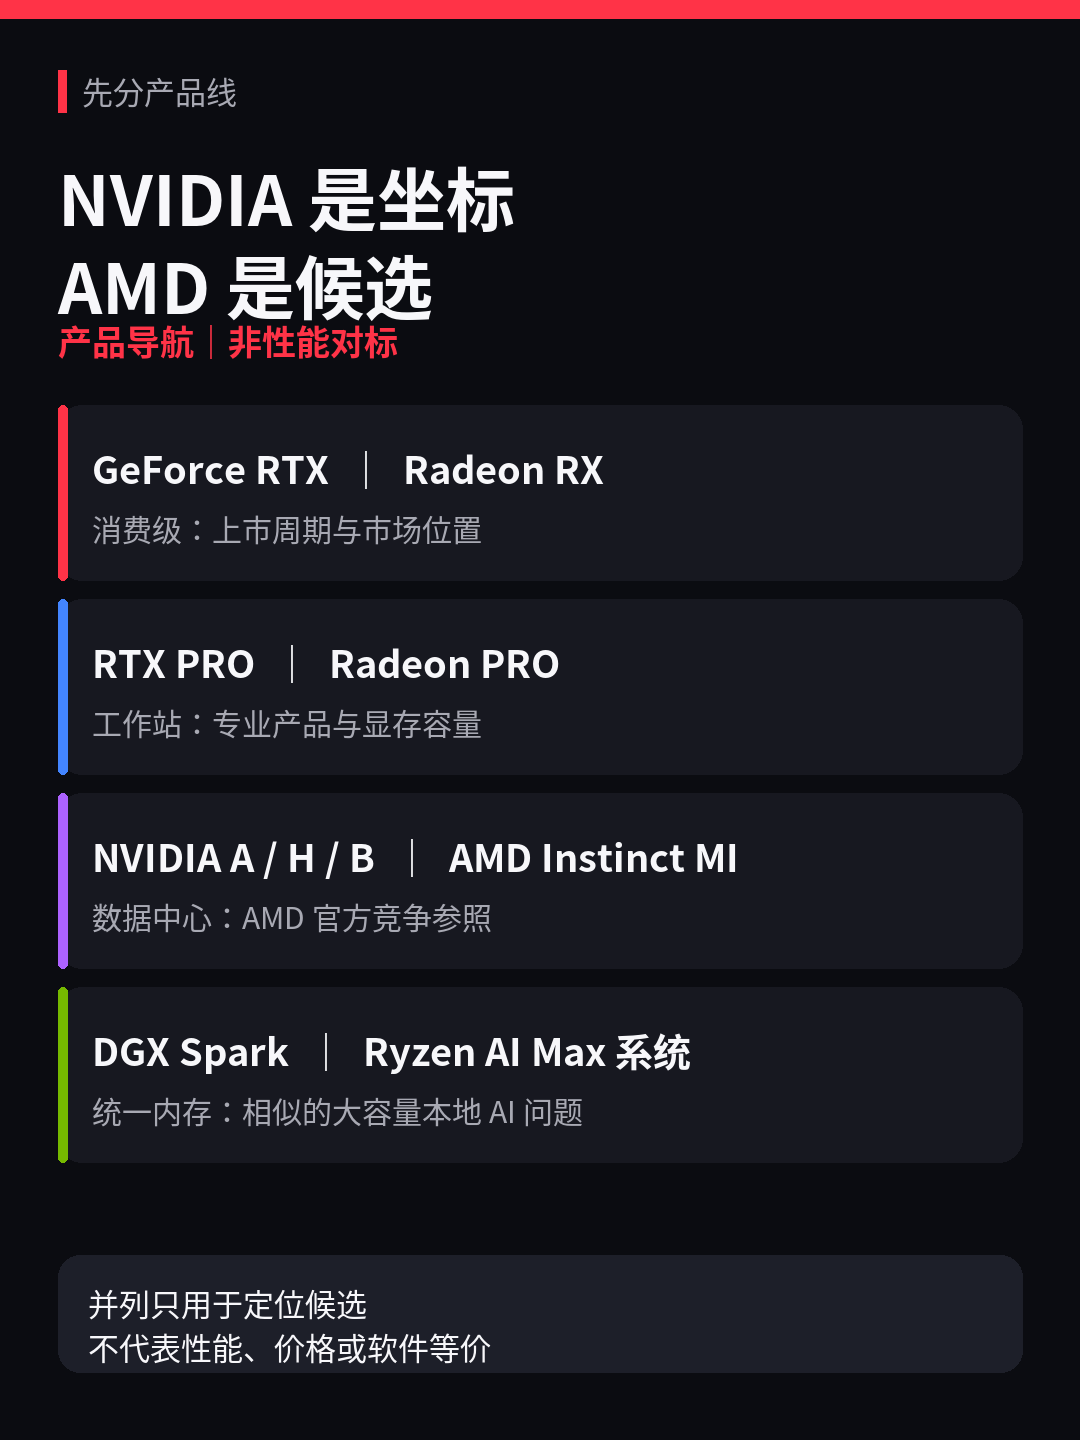
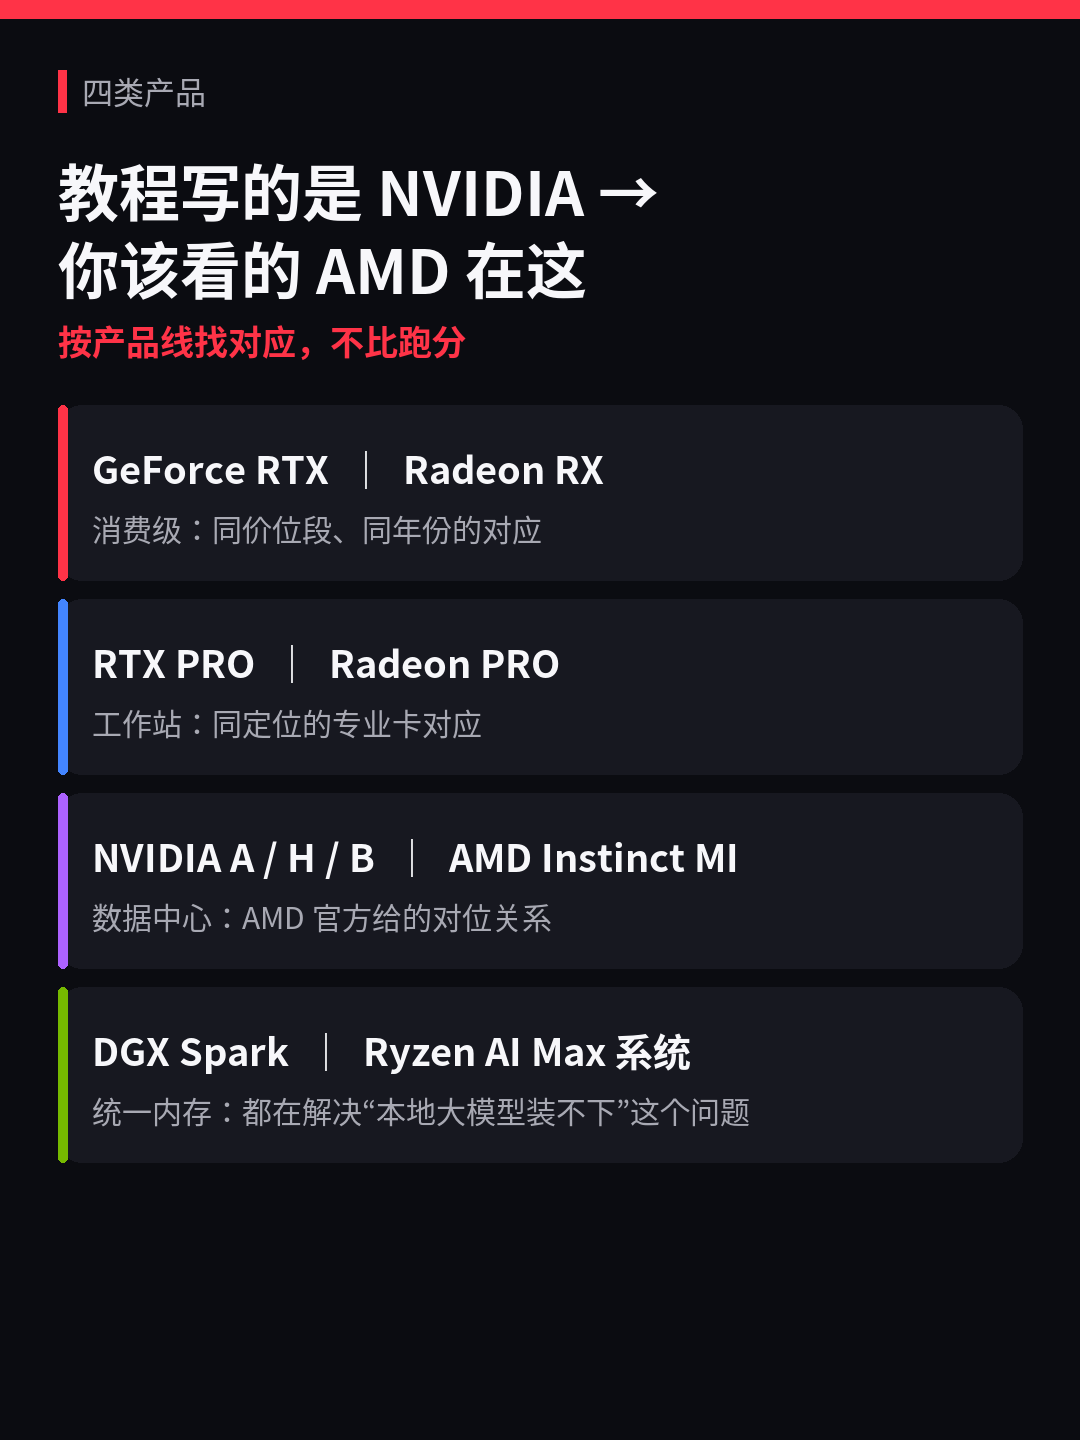
完善第八篇 A/N 产品对位文章与配图

diff --git a/zhihu/08-amd-nvidia-product-mapping/README.md b/zhihu/08-amd-nvidia-product-mapping/README.md
@@ -1,87 +1,120 @@
-# AI 教程常写 NVIDIA，换成 AMD 该看哪张？A/N 卡产品线与候选型号
+# AI 教程配置全是NVIDIA，AMD 怎么办？AMD该看哪张？从 5070 Ti 到 H100 逐一对位
 
-打开一篇本地大模型、AI 绘图或训练教程，硬件建议经常是这样写的：5070 Ti 够用，4090 更稳，训练则要上 H100。
+本地跑模型的教程，硬件建议基本都是 NVIDIA 型号：5070 Ti 够用、4090 稳定、训练上 H100。A 卡用户看这些等于白看：我手上这张 RX 9070 XT，该参考哪个级别？
 
-这些 NVIDIA 型号已经成了 AI 硬件的常用坐标。但如果你手里是 A 卡，问题马上就来了：RX 9070 XT 应该去参考哪类产品？W7900 能不能参考 RTX 6000 Ada 的使用场景？Instinct MI 系列又该怎么理解？
+本篇文章帮你对上。从消费级 GeForce 到数据中心 H100，NVIDIA 那边每个位置，都能在 AMD 这边找到对应的卡。不比性能，只解决一个问题：教程提到某张 N 卡的时候，你该去看谁。
 
-这篇文章先回答“去 AMD 这边看谁”。它是一份产品导航，不是性能对标：消费级按上市周期和市场位置找候选，工作站看专业产品与显存容量，数据中心采用 AMD 官方竞争参照，统一内存设备只比较它们解决的容量问题。真正的速度还要回到具体工作负载。
+---
 
-![AMD 与 NVIDIA 四类产品线总览](images/01-product-lines.png)
+![产品线总览](images/01-product-lines.png)
 
-## 教程写 5070 Ti，A 卡先看哪张
+## 消费级显卡：N卡和A卡，谁对标谁
 
-消费级显卡最容易建立坐标，也最容易被误读成性能排名。下面四组只表示市场位置候选。
+直接上表。同一行的两张卡，就是**市场位置接近**——年份、价位段、定位差不多，聊到其中一张的时候，另一张就是你的参照。
 
-| NVIDIA 坐标 | NVIDIA 显存 | AMD 候选 | AMD 显存 | 为什么放在一组 |
+| NVIDIA 这边 | 显存 | AMD 对位 | 显存 | 放一起的理由 |
 |---|---:|---|---:|---|
-| GeForce RTX 5070 Ti | 16GB GDDR7 | Radeon RX 9070 XT | 16GB GDDR6 | 同属 2025 高端消费级产品，容量相同 |
-| GeForce RTX 5070 | 12GB GDDR7 | Radeon RX 9070 | 16GB GDDR6 | 同一周上市，美国官方起始价格同为 549 美元 |
-| GeForce RTX 5060 Ti | 8GB / 16GB GDDR7 | Radeon RX 9060 XT | 8GB / 16GB GDDR6 | 同属 2025 主流产品家族，均有两种容量 |
-| GeForce RTX 4080 | 16GB GDDR6X | Radeon RX 7900 XTX | 24GB GDDR6 | 同属 2022 高端 4K 产品周期，但各自产品栈级别并非严格相同 |
+| RTX 5070 Ti | 16 GB GDDR7 | RX 9070 XT | 16 GB GDDR6 | 2025 高端，容量相同，N 卡官方首发起价高 $150 |
+| RTX 5070 | 12 GB GDDR7 | RX 9070 | 16 GB GDDR6 | 同周上市，美国官方首发起价都是 $549 |
+| RTX 5060 Ti | 8 / 16 GB GDDR7 | RX 9060 XT | 8 / 16 GB GDDR6 | 2025 主流段，都分 8 GB 和 16 GB 两版 |
+| RTX 4080 | 16 GB GDDR6X | RX 7900 XTX | 24 GB GDDR6 | 2022 高端 4K；但 XTX 是 AMD 旗舰，4080 是 NVIDIA 次旗舰 |
 
-![GeForce RTX 与 Radeon RX 候选位置](images/02-consumer-map.png)
+![消费级对位一览](images/02-consumer-map.png)
 
-RX 9070 和 RTX 5070 是这里上市时间与美国官方起始价格最接近的一组，但显存已经不同：前者是 16GB，后者是 12GB。RX 9060 XT 和 RTX 5060 Ti 则都分 8GB、16GB 两个版本，购买或阅读教程时不能只看型号。
+有个容易忽略的事：RTX 5070 只有 12 GB，但对面 RX 9070 有 16 GB。按美国官方首发起价，两张卡同为 $549，A 卡多了 4 GB——有时候跑大模型的时候这 4 GB 决定你能不能多装一个尺寸。另外， 9060 XT 和 5060 Ti 都有 8 GB / 16 GB 两个版本，买卡和看别人的经验时记得看容量，型号一样不代表显存一样。
 
-对本地大模型来说，模型权重、KV Cache 和运行时空间通常都要占显存。图像、视频生成还要给中间张量和分辨率、batch 带来的额外占用留空间。因此 RX 7900 XTX 的 24GB 与 RTX 4080 的 16GB 会给出不同的容量余量，但显存更大不自动代表生成更快。
+> 别看 RX 7900 XTX 比 RTX 4080 多了 8 GB 显存就以为它更快——显存大 = 装得下更大的模型， ≠ 跑得快。速度要看算力和带宽。
 
-找到候选卡之后，还要检查教程真正依赖什么。如果脚本调用 CUDA 专用库或算子，不能只替换显卡名；需要确认目标应用及所需算子，在当前操作系统、GPU 和软件版本上是否有 ROCm、Vulkan 或其他可用实现。
+还有一件事得提前说清楚：找到对位卡只是起点。大模型推理、图像绘制、训练的工具链，绝大多数默认走 CUDA——也就是 NVIDIA 专属。拿 A 卡去跑，不是换个型号就完事的，得确认你用的那个具体工具（llama.cpp、ComfyUI、Stable Diffusion、PyTorch……）在 AMD 这边有没有能走的路——ROCm、Vulkan、或者工具自己做的适配。
 
-## 32GB 和 48GB，再看工作站卡
+这件事很重要，但本篇不展开。我们在其他文章里已经提到了哪些能跑、怎么跑、坑在哪。可参考：[一文讲清 AMD GPU 显卡型号及其代号 gfx](https://zhuanlan.zhihu.com/p/2067663713826612548)、[AMD ROCm 与 PyTorch 安装指南](https://zhuanlan.zhihu.com/p/2068740074364260377)、[AMD GPU/APU AI 架构入门：CU、Vector Core 和 Shared Memory 怎么工作](https://zhuanlan.zhihu.com/p/2068399264997315488)。
+这里你只需要记住：**卡对上了不代表软件就通了。**
 
-如果教程已经写到 RTX PRO，AMD 侧应优先看 Radeon PRO / AI PRO，而不是只在 Radeon RX 游戏卡里找。
+消费卡只是四条产品线里的底端。往上还有工作站卡和数据中心 GPU——如果你关心的是 32 GB 以上的大容量方案，接着往下看。
 
-| NVIDIA 坐标 | 显存 | AMD 候选 | 显存 | 产品关系 |
+## 工作站卡：32 GB 和 48 GB 这个级别
+
+工作站卡和游戏卡是两条产品线。RTX PRO 对面是 Radeon PRO / AI PRO，不要拿 RX 去套。
+
+| NVIDIA 这边 | 显存 | AMD 对位 | 显存 | 放一起的理由 |
 |---|---:|---|---:|---|
-| RTX PRO 4500 Blackwell Workstation Edition | 32GB GDDR7 ECC | Radeon AI PRO R9700 | 32GB GDDR6 | 同属 2025 专业工作站周期，本地 AI 与专业创作用途有交集 |
-| RTX 6000 Ada Generation | 48GB GDDR6 ECC | Radeon PRO W7900 | 48GB GDDR6 ECC | 同时代旗舰工作站产品，容量和目标用途接近，不按价格配对 |
+| RTX PRO 4500 (Blackwell) | 32 GB GDDR7 ECC | Radeon AI PRO R9700 | 32 GB GDDR6 | 都是 2025 年专业卡，都瞄着"本地 AI + 创作"这个交叉点 |
+| RTX 6000 Ada | 48 GB GDDR6 ECC | Radeon PRO W7900 | 48 GB GDDR6 ECC | 同代旗舰工作站卡，容量相同，用途重叠（渲染 / 设计 / AI） |
 
-![RTX PRO 与 Radeon PRO 候选位置](images/03-workstation-map.png)
+![工作站对位一览](images/03-workstation-map.png)
 
-这两张 AMD 卡不是只存在于规格表里。我们在一台 4×R9700 宿主上锁定单卡，用 ROCm 7.2.0、PyTorch 2.9.1 和 Transformers 5.14.1 跑通了 Qwen2.5-0.5B-Instruct；另一组独立实验则用单卡 llama.cpp ROCm / HIP 跑过 Qwen3.6-35B-A3B Q4_K_M。W7900 这边，我们用 llama.cpp Vulkan 跑通 Qwen3.8 27B Q4_K_M，开启 MTP 后约占 19.2 GiB，65 / 65 个模型层全部放进 GPU。
+这两张卡我都实际跑过。一些热门模型：
 
-这些观察说明的是容量怎样落到实际任务，不是 R9700 或 W7900 与 NVIDIA 候选的速度关系。32B Q4 权重常见约 20GB，放进 32GB 卡后还能给 KV Cache 和 workspace 留空间；70B Q4 权重常见约 40—45GB，进入 48GB 单卡后余量已经很紧，实际占用仍会随上下文、精度和框架变化。
+R9700（32 GB）：单卡跑通了 Qwen3.6-35B-A3B 的 Q4 量化版，也跑过 Qwen2.5-0.5B 的 FP16 未量化推理。前者在本项目这次单卡配置下成功运行；实际余量仍取决于具体量化文件、上下文、KV Cache 和 workspace。
 
-R9700 还明确面向本地开发、模型微调和多 GPU 工作站。但多张 32GB 卡不会自动变成一个对程序透明的 64GB 显存池。普通数据并行通常在每张卡复制完整模型，主要扩大吞吐或全局 batch；如果要让单卡放不下的模型或训练状态跨卡，需要张量并行、流水线并行、FSDP / ZeRO 等分片方式。互联带宽、通信库和并行策略也会进入选型。
+W7900（48 GB）：单卡跑通了 Qwen3.8-27B 的 Q4 量化版。MTP=2、8192 上下文时约占 19.2 GiB，65 / 65 个计算层都在 GPU 上；另有约 680 MB embedding 留在系统内存。这套配置在 48 GB 卡上仍有明显余量。
 
-## A100、H100、B200，对面是 Instinct 哪一代
+给你一个容量直觉：
 
-数据中心部分不是按价格排列。下面四组是 AMD 官方产品材料实际采用的 NVIDIA 竞争参照。
+- **30B 级模型 Q4 量化** ≈ 20 GB 权重。放进 32 GB 卡后理论上还剩约 10 GB；是否够上下文、KV Cache 和 workspace，要看具体模型与配置。
+- **70B 级模型 Q4 量化** ≈ 40–45 GB 权重。塞进 48 GB 卡后余量只剩几个 GB，上下文稍长就可能爆显存。
 
-| NVIDIA 竞争参照 | 代表容量 | AMD Instinct | 容量 | 关系 |
+这就是为什么 32 GB 和 48 GB 是工作站卡的两个关键台阶。
+
+R9700 支持多卡配置。四张 32 GB 卡确实共有 128 GB 聚合显存，但不会自动变成程序眼里的一整块。普通数据并行会在每张卡复制完整模型；要让单卡放不下的模型跨卡，需要张量并行、流水线并行或 FSDP / ZeRO 等分片方案。互联带宽、拓扑和通信库会影响性能。这部分水很深，本篇不展开。
+
+---
+
+## 数据中心：A100、H100、B200 对面是谁
+
+这一段跟你买什么卡没关系——但你会在各种地方看到这些型号，知道它们的对位关系能帮你建立全局画面。
+
+下面四组是 AMD 官方自己对标的，不是我配的：
+
+| NVIDIA | 显存 | AMD Instinct | 显存 | 备注 |
 |---|---:|---|---:|---|
-| A100 80GB SXM | 80GB HBM2e | MI250X | 2×64GB HBM2e | AMD 发布材料的直接比较对象 |
-| H100 SXM | 80GB HBM3 | MI300X | 192GB HBM3 | AMD 官方比较过 OAM / HGX 配置 |
-| H200 SXM | 141GB HBM3e | MI325X | 256GB HBM3E | 两者都是原架构上的高容量刷新产品 |
-| B200 SXM / HGX B200 | 180GB HBM3e / GPU | MI355X | 288GB HBM3E | AMD 官方采用的单 GPU 与 8-GPU 平台竞争参照 |
+| A100 | 80 GB HBM2e | MI250X | 2×64 GB HBM2e | AMD 官方竞争参照 |
+| H100 | 80 GB HBM3 | MI300X | 192 GB HBM3 | AMD 官方竞争参照 |
+| H200 | 141 GB HBM3e | MI325X | 256 GB HBM3e | AMD 官方竞争参照 |
+| B200 | 180 GB HBM3e | MI355X | 288 GB HBM3e | AMD 官方竞争参照 |
 
-![AMD Instinct 与 NVIDIA 数据中心 GPU 竞争参照](images/04-datacenter-map.png)
+![数据中心对位一览](images/04-datacenter-map.png)
 
-这一部分面向数据中心训练、推理服务和多卡集群。容量决定模型和运行状态能不能放下，计算精度支持会影响 FP8、FP4 等训练或推理路径，内存带宽影响数据在 GPU 内移动的上限，GPU 间互联影响多卡扩展，软件框架、通信库和优化 kernel 则决定峰值规格能不能在真实任务中兑现。
+数据中心 GPU 的选型维度远比消费卡复杂——容量、算力、带宽、卡间互联、软件生态全都是变量。这里只帮你建立"N卡和A卡谁对谁"的基本画面。
 
-图中按单个 GPU 或 OAM 展示。MI250X 的 128GB 来自两个被 ROCm 独立枚举的 64GB GCD，并不是单个 ROCm 设备的 128GB 本地显存池。四组产品在部分特定 benchmark 中可能接近，也可能差距很大；这张图只负责说明官方竞争关系，不负责给出跨模型、精度和软件的性能结论。
+> **关于 MI250X 的显存：** 表里写的 2×64 GB 不是笔误。一个 OAM 内含两个 GCD，每个连接 64 GB HBM2e；ROCm 将其枚举为两个 GPU 设备，并不是一整块 128 GB 显存池。这个设计在实际使用中有影响。
 
-## 都写 128GB，Ryzen AI Max 和 DGX Spark 一样吗
+## 统一内存：都是 128 GB，但完全不是一回事
 
-如果真正的问题是模型装不进普通独显，另一条路线是把大容量统一内存放进紧凑设备。
+主流消费级独显常见 16 GB、24 GB，工作站卡能到 48 GB 甚至更高。另一条扩大本地可用容量的路，是让 CPU 和 GPU 共享一整块大内存，不再区分"显存"和"内存"。这就是统一内存方案，AMD 和 NVIDIA 各出了一个：
 
-![两种 128GB 统一内存本地 AI 平台](images/05-unified-memory.png)
+![两种 128 GB 统一内存方案](images/05-unified-memory.png)
 
-Ryzen AI Max+ 395 采用 Zen 5 CPU 和 Radeon 8060S，受支持配置可以使用 ROCm，AMD 官方也提供过 Windows + Vulkan 路径。128GB 是系统内存总量，不是 Radeon 8060S 的独占显存；标准 Windows VGM 最多可划出 96GB 作为专用图形内存。
+**AMD 这边：Ryzen AI Max+ 395 系统**
 
-DGX Spark 使用 Arm + Blackwell 的 GB10，官方规格是 128GB LPDDR5x coherent unified system memory，并预装 NVIDIA AI 软件栈。两边都在用大容量共享内存扩大本地模型的可装载范围，但可装下相近规模的模型，不代表首 token、生成速度、批量推理、微调或图像生成性能相同。
+CPU 是 Zen 5，GPU 是集成的 Radeon 8060S，共享最高 128 GB LPDDR5x 统一内存。
+关键数字：96 GB。Windows 下最多可以把其中 96 GB 分给 GPU 用。
 
-## 找到候选型号后，怎样判断能不能用
+**NVIDIA 那边：DGX Spark（GB10 Grace Blackwell）**
 
-假设一篇教程写“需要 24GB NVIDIA 显卡”，先不要急着从表里挑一张 AMD 候选。先看这 24GB 是为了装下模型，还是教程依赖某个 CUDA 算子。
+Arm CPU + Blackwell GPU，同样 128 GB LPDDR5x 统一内存，CPU 和 GPU 共享整块物理内存。预装 NVIDIA 全家桶。
 
-我的建议是按这个顺序判断：
+两个方案解决的是同一个问题：给本地运行 70B 甚至更大模型提供更大的可用内存。专业大显存独显和多卡同样能跑大模型，只是硬件形态和软件路径不同。
 
-1. **先看容量**：模型权重、上下文和运行时空间能不能装下；
-2. **再看软件**：目标应用及所需算子，在你的操作系统、GPU 和软件版本上是否有 ROCm、Vulkan 或其他可用实现；
-3. **最后看实测和价格**：只比较同模型、同精度、同软件版本和相近配置下的结果。
+但"装得下"不等于"跑得一样快"，架构不同、软件生态不同，实际推理速度可能差很多。
 
-产品导航负责把搜索范围从十几张卡缩到一两张候选，性能结论仍要由你的真实任务给出。
+---
+
+## 找到对位卡之后
+
+知道该看谁，只是第一步。接下来判断"能不能用"，我建议这个顺序：
+
+1. **容量够不够。** 你要跑的模型 + 上下文 + 运行开销，装不装得进这张卡的显存（或统一内存）。前面给的容量直觉可以直接套用。
+2. **软件通不通。** 你具体要用的工具——llama.cpp、ComfyUI、PyTorch、Stable Diffusion——在这张 AMD 卡上有没有能跑的后端。这是 A 卡最大的不确定性，也是后面几篇的重点。
+3. **速度行不行。** 同一个模型、同一个量化、同一个软件版本，实测对比才有意义。别拿不同条件的数字互相比。
+
+更完整的场景、显存和软件栈选择，可以继续看：[AMD GPU 到底能不能跑大模型？训练和推理该用什么来跑？](https://zhuanlan.zhihu.com/p/2070243270706435814)。
+
+---
+
+## 看看你的
+
+**你手上是哪张 A 卡？打算拿来跑什么？** 评论区说一下型号和想跑的任务，后面实测篇可以优先覆盖被提到最多的组合。
 
 ## 参考资料
 
@@ -92,4 +125,3 @@ DGX Spark 使用 Arm + Blackwell 的 GB10，官方规格是 128GB LPDDR5x cohere
 
 #AMD #NVIDIA #显卡 #ROCm #CUDA #本地大模型 #人工智能
 
-你平时在教程里看到最多的是哪张 NVIDIA 卡？自己手里又是哪张 AMD 卡，准备跑什么模型或应用？欢迎把型号和任务留在评论区。
